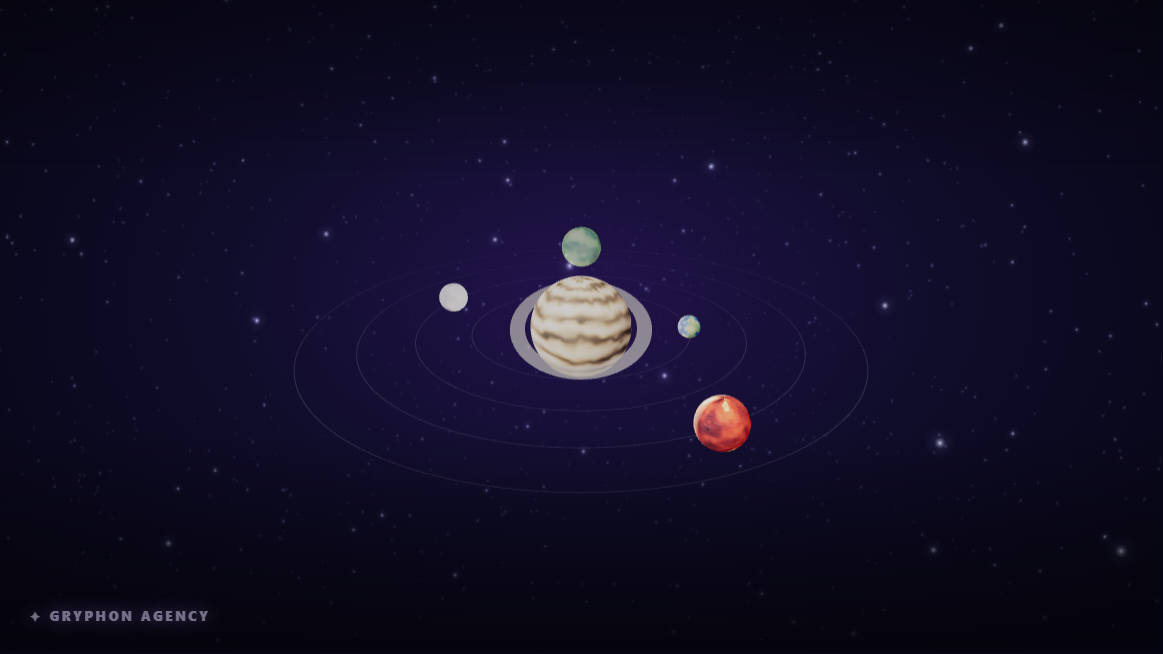
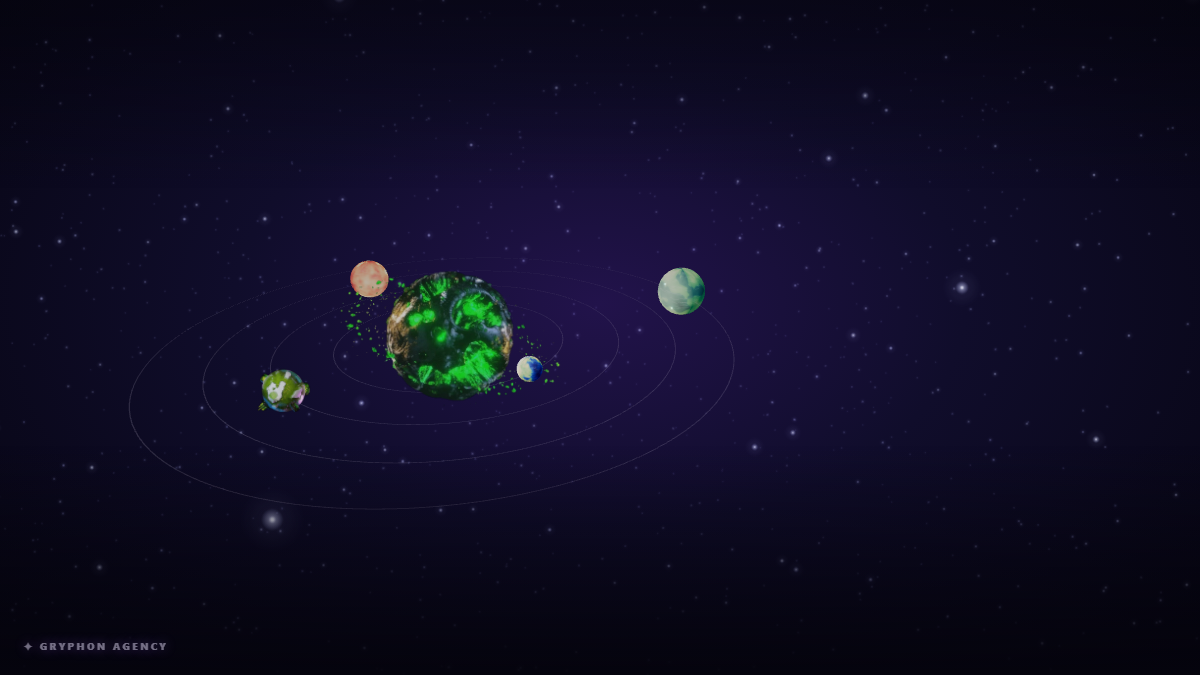
Animate and publish updated planet battle

diff --git a/bataille-des-planetes.html b/bataille-des-planetes.html
@@ -248,6 +248,9 @@
       const meshes=[];
       const orbitLines=[];
       const planetRings=[];
+      const planetSprites=[];
+      const planetSpriteLoaded=[];
+      const animatedPlanetTextures=[];
       const explosions=[];
       const liveStorageKey='bataille-planetes-tiktok-user';
       const liveSocketUrl=location.protocol==='https:'?`wss://${location.host}`:
@@ -255,6 +258,10 @@
       let scene,camera,renderer,starfield,starGlow,clock,baseCamera,shootingStarCanvas,shootingStarContext,shootingStarProgress=null;
       let audioContext=null;
       const colorHex=value=>`#${value.toString(16).padStart(6,'0')}`;
+      const animatedPlanetAssets={
+        saturn:{src:'/bataille-planetes-centre-frames.webp',scale:2.1,frameCount:14,columns:7,frameWidth:448,frameHeight:347,frameDuration:300},
+        moon:{src:'/bataille-planetes-blanche-frames.webp',scale:1.9,frameCount:68,columns:8,frameWidth:448,frameHeight:448,frameDuration:150}
+      };
 
       function valueNoise(grid,x,y){
         const gridWidth=grid.width,gridHeight=grid.height;
@@ -413,6 +420,65 @@
         return texture;
       }
 
+      function createAnimatedPlanetSprite(type,size,index,mesh){
+        const asset=animatedPlanetAssets[type];
+        if(!asset)return null;
+        const canvas=document.createElement('canvas');
+        canvas.width=asset.frameWidth;canvas.height=asset.frameHeight;
+        const context=canvas.getContext('2d');
+        if(!context)throw new Error('Impossible de créer les textures animées des planètes.');
+        const texture=new THREE.CanvasTexture(canvas);
+        texture.encoding=THREE.sRGBEncoding;
+        texture.anisotropy=renderer.capabilities.getMaxAnisotropy();
+        const material=new THREE.SpriteMaterial({
+          map:texture,transparent:true,alphaTest:.02,depthWrite:false,toneMapped:false
+        });
+        const sprite=new THREE.Sprite(material);
+        sprite.scale.set(2*size*asset.scale,2*size*asset.scale,1);
+        sprite.visible=false;
+        const image=new Image();
+        image.alt='';
+        image.setAttribute('aria-hidden','true');
+        Object.assign(image.style,{
+          position:'fixed',left:'-10px',top:'-10px',width:'1px',height:'1px',opacity:'0',pointerEvents:'none'
+        });
+        document.body.appendChild(image);
+        image.onload=()=>{
+          context.drawImage(image,0,0,asset.frameWidth,asset.frameHeight,
+            0,0,asset.frameWidth,asset.frameHeight);
+          texture.needsUpdate=true;
+          sprite.scale.set(2*size*asset.scale,
+            2*size*asset.scale*asset.frameHeight/asset.frameWidth,1);
+          planetSpriteLoaded[index]=true;
+          sprite.visible=mesh.userData.alive;
+          mesh.visible=mesh.userData.alive&&!sprite.visible;
+          animatedPlanetTextures.push({
+            asset,canvas,context,image,texture,mesh,frameIndex:-1
+          });
+        };
+        image.onerror=()=>{
+          console.error(`Impossible de charger la texture animée ${asset.src}.`);
+        };
+        image.src=asset.src;
+        return sprite;
+      }
+
+      function updateAnimatedPlanetTextures(){
+        animatedPlanetTextures.forEach(animation=>{
+          const {asset,canvas,context,image,texture,mesh}=animation;
+          const rotation=((mesh.rotation.y%(Math.PI*2))+Math.PI*2)%(Math.PI*2);
+          const frameIndex=Math.floor(rotation/(Math.PI*2)*asset.frameCount);
+          if(frameIndex===animation.frameIndex)return;
+          animation.frameIndex=frameIndex;
+          const sourceX=(frameIndex%asset.columns)*asset.frameWidth;
+          const sourceY=Math.floor(frameIndex/asset.columns)*asset.frameHeight;
+          context.clearRect(0,0,canvas.width,canvas.height);
+          context.drawImage(image,sourceX,sourceY,asset.frameWidth,asset.frameHeight,
+            0,0,asset.frameWidth,asset.frameHeight);
+          texture.needsUpdate=true;
+        });
+      }
+
       function createStarfield(){
         const count=2600,positions=new Float32Array(count*3),colors=new Float32Array(count*3);
         for(let i=0;i<count;i++){
@@ -564,13 +630,18 @@
           }else{
             scene.add(mesh);
           }
-          if(data.type==='saturn'){
+          if(data.type==='saturn'&&!animatedPlanetAssets[data.type]){
             const ring=makeRing(data.size+.45,data.size+1.7,0xd4c09a,.74,-Math.PI/2.6);
             scene.add(ring);
             planetRings[index]=ring;
           }
           mesh.userData={index,angle,alive:true};
           meshes.push(mesh);
+          const sprite=createAnimatedPlanetSprite(data.type,data.size,index,mesh);
+          if(sprite){
+            scene.add(sprite);
+            planetSprites[index]=sprite;
+          }
         });
       }
 
@@ -1107,6 +1178,7 @@
         triggerExplosion(position,data.color);
         mesh.userData.alive=false;
         mesh.visible=false;
+        if(planetSprites[game.index])planetSprites[game.index].visible=false;
         if(planetRings[game.index])planetRings[game.index].visible=false;
         if(orbitLines[game.index])orbitLines[game.index].visible=false;
         game.stars+=data.reward;
@@ -1238,7 +1310,12 @@
       function resetGame(){
         window.clearTimeout(game.victoryTimer);
         game.index=0;game.points=0;game.stars=0;game.cameraShake=0;
-        meshes.forEach(mesh=>{mesh.visible=true;mesh.userData.alive=true;mesh.scale.setScalar(1)});
+        meshes.forEach((mesh,index)=>{
+          mesh.userData.alive=true;
+          mesh.scale.setScalar(1);
+          mesh.visible=!planetSpriteLoaded[index];
+          if(planetSprites[index])planetSprites[index].visible=planetSpriteLoaded[index];
+        });
         planetRings.forEach(ring=>{if(ring)ring.visible=true});
         orbitLines.forEach(line=>{if(line)line.visible=true});
         explosions.forEach(explosion=>{
@@ -1256,7 +1333,9 @@
         const delta=Math.min(clock.getDelta(),.05);
         meshes.forEach((mesh,index)=>{
           if(!mesh.userData.alive)return;
-          mesh.rotation.y+=delta*(planets[index].type==='moon' ? .22 : .55);
+          const rotationSpeed=planets[index].type==='saturn'?.3:
+            planets[index].type==='moon'?.22:.55;
+          mesh.rotation.y+=delta*rotationSpeed;
           if(planetRings[index])planetRings[index].position.copy(mesh.position);
           const data=planets[index];
           if(data.orbit){
@@ -1264,7 +1343,12 @@
             mesh.position.x=Math.cos(mesh.userData.angle)*data.orbit;
             mesh.position.z=Math.sin(mesh.userData.angle)*data.orbit;
           }
+          if(planetSprites[index]){
+            mesh.getWorldPosition(planetSprites[index].position);
+            planetSprites[index].position.z+=.08;
+          }
         });
+        updateAnimatedPlanetTextures();
         if(starfield)starfield.rotation.y+=delta*.012;
         if(starGlow)starGlow.rotation.y+=delta*.012;
         updateShootingStar(delta);

diff --git a/serveur.js b/serveur.js
@@ -2811,6 +2811,8 @@ const server = http.createServer((req, res) => {
         ['/petits-chevaux-tiktok.html', [petitTrotFile, 'text/html; charset=utf-8']],
         ['/wish-lab.html', [wishLabFile, 'text/html; charset=utf-8']],
         ['/bataille-des-planetes.html', [path.join(__dirname, 'bataille-des-planetes.html'), 'text/html; charset=utf-8']],
+        ['/bataille-planetes-centre-frames.webp', [path.join(__dirname, 'bataille-planetes-centre-frames.webp'), 'image/webp']],
+        ['/bataille-planetes-blanche-frames.webp', [path.join(__dirname, 'bataille-planetes-blanche-frames.webp'), 'image/webp']],
         ['/maya-island.html', [mayaIslandFile, 'text/html; charset=utf-8']],
         ['/maya-island/assets/index-D2suOsh3.js', [mayaIslandScriptFile, 'text/javascript; charset=utf-8']],
         ['/maya-island/assets/index-B0kkXLGt.css', [mayaIslandStylesheetFile, 'text/css; charset=utf-8']],
